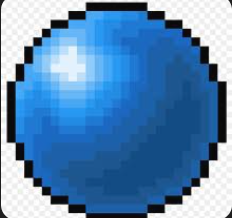
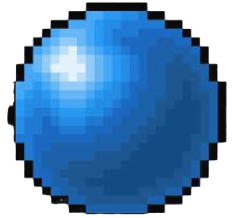
Feat(Ball): Create a ball on the paddle

diff --git a/src/main/java/uet/project/arkanoid/GameManager.java b/src/main/java/uet/project/arkanoid/GameManager.java
@@ -24,10 +24,14 @@ public class GameManager extends Application {
     private final GraphicsContext gc = canvas.getGraphicsContext2D();
 
     // Object lists
-    private final List<Ball> balls = new ArrayList<>();
-    private final List<Brick> bricks = new ArrayList<>();
-    private final List<Paddle> paddles = new ArrayList<>();
-    private final List<PowerUp> powerUps = new ArrayList<>();
+    private static final List<Ball> balls = new ArrayList<>();
+    private static final List<Brick> bricks = new ArrayList<>();
+    private static final List<Paddle> paddles = new ArrayList<>();
+    private static final List<PowerUp> powerUps = new ArrayList<>();
+
+    public static Paddle getPaddle () {     // Used to pass the paddle to other classes.
+        return paddles.get(0);
+    }
 
     // GameState
     public GameState currentState = GameState.GAME_TEST;
@@ -89,6 +93,9 @@ public class GameManager extends Application {
             // TODO: Runs update() on every GameObject.
             for (Paddle paddle : paddles) {
                 paddle.update();
+            }
+            for (Ball ball : balls) {
+                ball.update();
             }
         }
     }

diff --git a/src/main/java/uet/project/arkanoid/Objects/Ball.java b/src/main/java/uet/project/arkanoid/Objects/Ball.java
@@ -1,12 +1,16 @@
 package uet.project.arkanoid.Objects;
 
 import javafx.scene.canvas.GraphicsContext;
+import uet.project.arkanoid.Basis;
+import uet.project.arkanoid.GameManager;
+
+import java.util.List;
+import java.util.ArrayList;
 
 public class Ball extends MovableObject {
     private int speed = 0;
     private int directionX = 0;
     private int directionY = 0;
-
 
     public Ball(int x, int y, int width, int height, int speed) {
         super(x, y, width, height);
@@ -34,14 +38,15 @@ public class Ball extends MovableObject {
     }
 
     public void move() {
-
+        Paddle paddleMain = GameManager.getPaddle();
+        setX(paddleMain.getX() + paddleMain.getWidth() / 2 - 25);
     }
 
     public void render(GraphicsContext gc) {
-
+        gc.drawImage(Basis.BALL_TEXTURE, getX(), getY(), this.width, this.height);
     }
 
     public void update() {
-
+        move();
     }
 }

diff --git a/src/main/java/uet/project/arkanoid/Basis.java b/src/main/java/uet/project/arkanoid/Basis.java
@@ -17,10 +17,11 @@ public class Basis {
     //Textures
     public static final Image PADDLE_TEXTURE;
     public static final Image BRICK_TEXTURE = null;
-    public static final Image BALL_TEXTURE = null;
+    public static final Image BALL_TEXTURE;
 
     static {
         PADDLE_TEXTURE = new Image(Objects.requireNonNull(Basis.class.getResource("/Objects/Paddle_1.png")).toExternalForm());
+        BALL_TEXTURE = new Image(Objects.requireNonNull(Basis.class.getResource("/Objects/Ball_3.png")).toExternalForm());
     }
 
 

diff --git a/src/main/java/uet/project/arkanoid/Objects/GameObject.java b/src/main/java/uet/project/arkanoid/Objects/GameObject.java
@@ -31,6 +31,22 @@ public abstract class GameObject {
         this.y = Y;
     }
 
+    public int getWidth() {
+        return this.width;
+    }
+    
+    public void setWidth(int width) {
+        this.width = width;
+    }
+
+    public int getHeight() {
+        return this.height;
+    }
+
+    public void setHeight(int height) {
+        this.height = height;
+    }
+
     public abstract void update();
 
     public abstract void render(GraphicsContext gc);

diff --git a/src/main/java/uet/project/arkanoid/GameSetup.java b/src/main/java/uet/project/arkanoid/GameSetup.java
@@ -27,6 +27,8 @@ public class GameSetup {
         //Test here
         if (currentState == GameState.GAME_TEST) {
             paddles.add(new Paddle(Basis.STAGE_TEST_X, 720 - 70, 210, 56, 6));
+            Paddle paddleMain = paddles.get(0);
+            balls.add(new Ball(paddleMain.getX() + paddleMain.getWidth() / 2 - 25, paddleMain.getY() - 20, 50, 40, 0));
         }
 
     }
